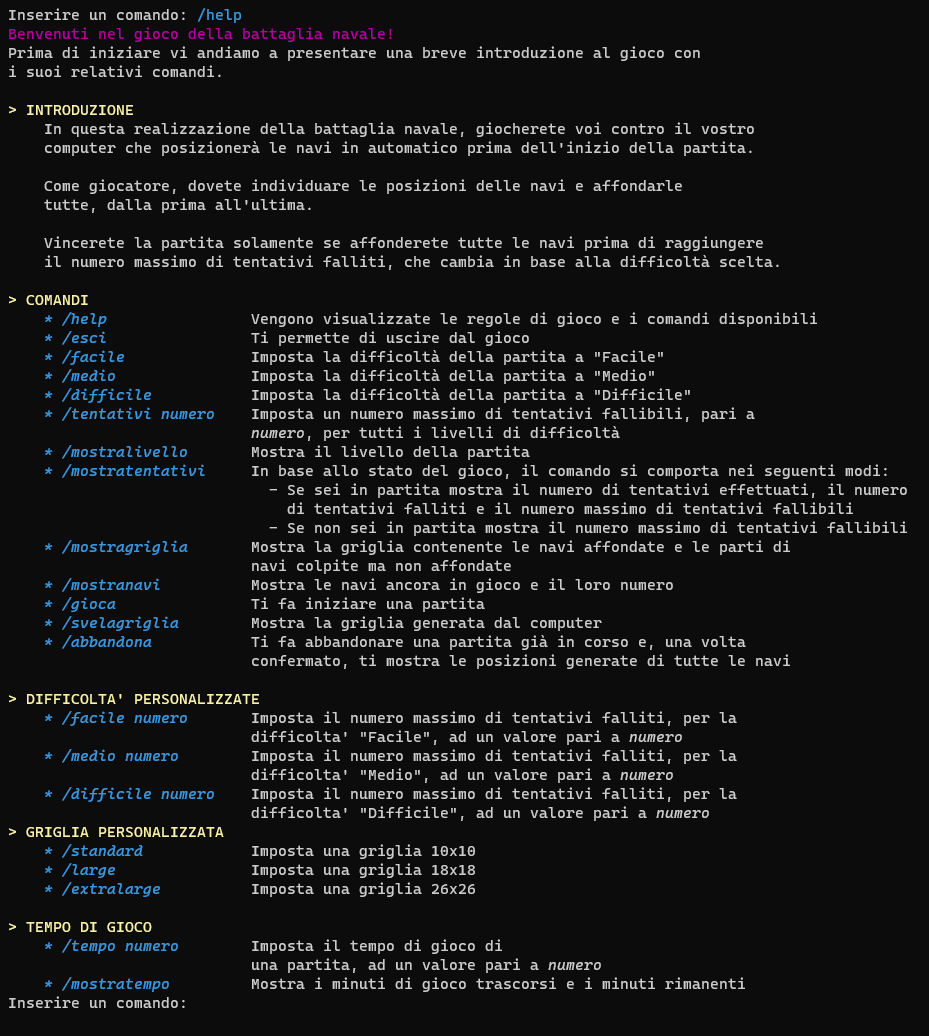
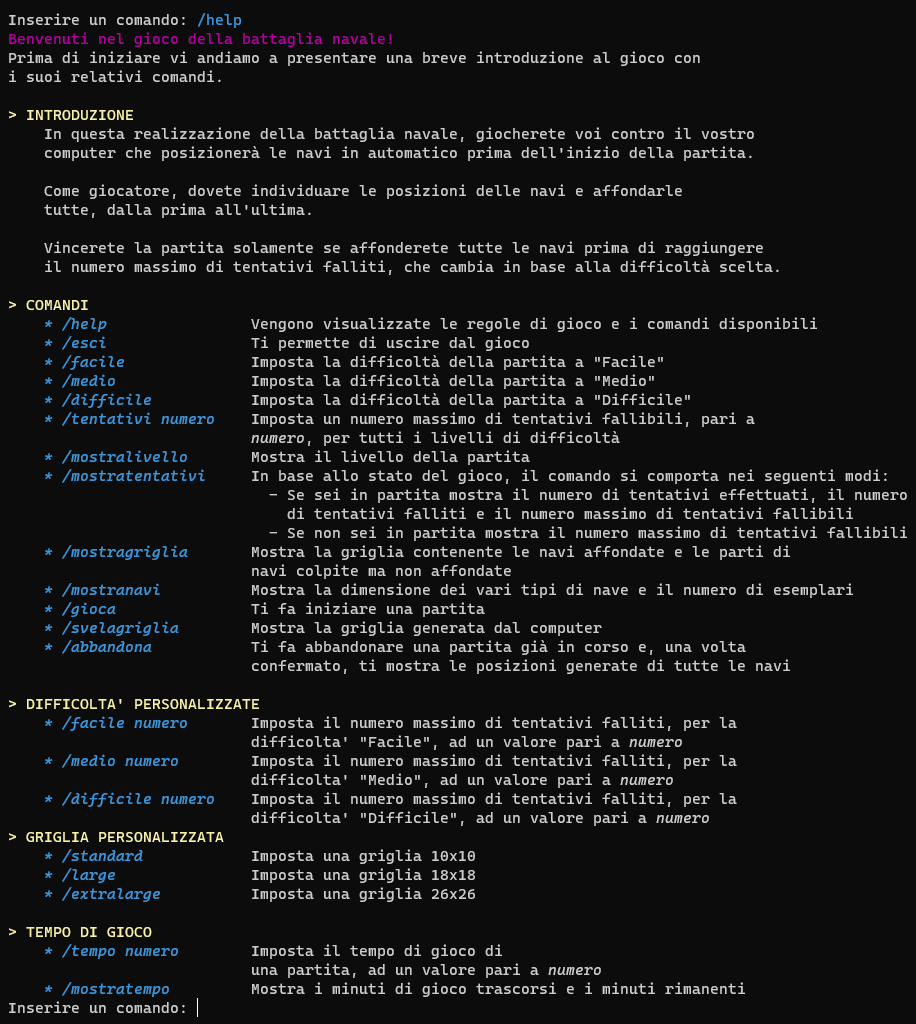
Modificata descrizione /mostranavi

diff --git a/src/main/java/it/uniba/nygaard/game/boundary/HelpBoundary.java b/src/main/java/it/uniba/nygaard/game/boundary/HelpBoundary.java
@@ -76,7 +76,7 @@ public final class HelpBoundary {
         + "Mostra la griglia contenente le navi affondate e le parti di \n"
         + "                           navi colpite ma non affondate\n"
         + UColor.ITALIC + UColor.CYAN + "    * /mostranavi          " + UColor.RESET
-        + "Mostra le navi ancora in gioco e il loro numero\n"
+        + "Mostra la dimensione dei vari tipi di nave e il numero di esemplari\n"
         + UColor.ITALIC + UColor.CYAN + "    * /gioca               " + UColor.RESET
         + "Ti fa iniziare una partita\n"
         + UColor.ITALIC + UColor.CYAN + "    * /svelagriglia        " + UColor.RESET
